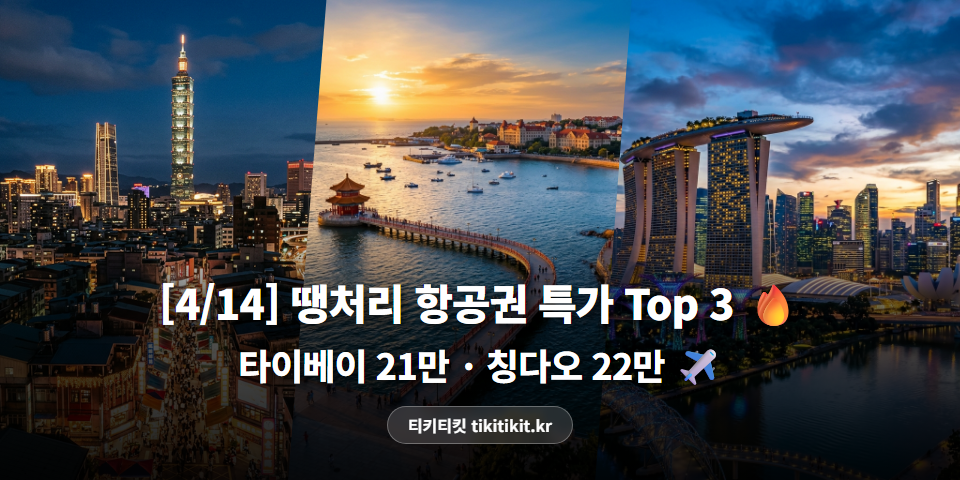
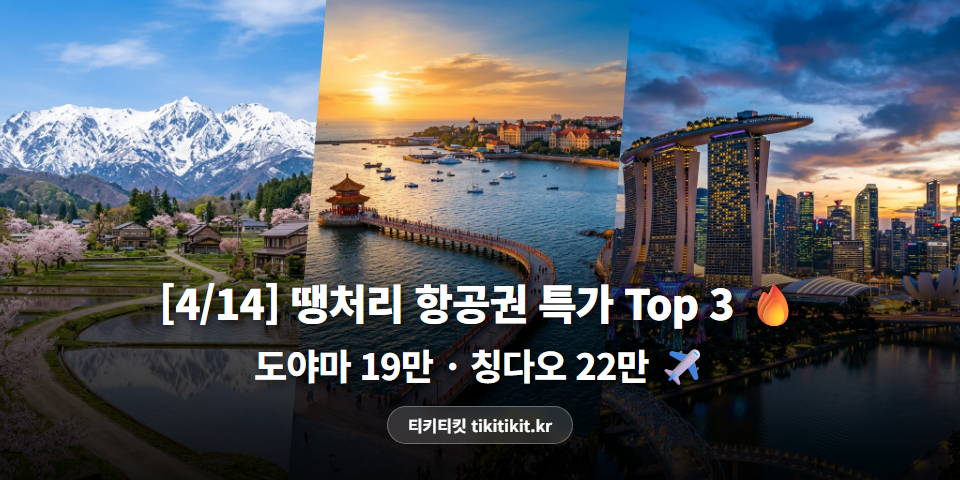
feat: 4/14 Top3 도야마 추가, 싱가포르 ICN섹션 이동, 썸네일 갱신

Changed region(s): [[0.0, 0.0, 0.75, 0.9375]]

diff --git a/public/blog-post-260414.html b/public/blog-post-260414.html
@@ -4,7 +4,7 @@
 <head>
     <meta charset="UTF-8">
     <meta name="viewport" content="width=device-width, initial-scale=1.0">
-    <title>[4/14] 땡처리 항공권 특가 TOP 3 | 타이베이 21만원, 칭다오 22만원 ✈</title>
+    <title>[4/14] 땡처리 항공권 특가 TOP 3 | 도야마 19만원, 칭다오 22만원 ✈</title>
     <style>
         * {
             margin: 0;
@@ -102,17 +102,17 @@
 
     <div class="post">
 
-        <img src="images/blog-thumb-260414-wide.png" alt="[4/14] 땡처리 항공권 특가 TOP 3 | 타이베이 21만원, 칭다오 22만원 ✈" style="width: 100%; border-radius: 12px; margin-bottom: 16px;" />
+        <img src="images/blog-thumb-260414-wide.png" alt="[4/14] 땡처리 항공권 특가 TOP 3 | 도야마 19만원, 칭다오 22만원 ✈" style="width: 100%; border-radius: 12px; margin-bottom: 16px;" />
 
-        <h1 style="text-align: center; font-size: 22px; font-weight: 800; color: #1a1a1a; margin: 16px 0 24px; line-height: 1.5;">[4/14] 땡처리 항공권 특가 TOP 3 | 타이베이 21만원, 칭다오 22만원 ✈</h1>
+        <h1 style="text-align: center; font-size: 22px; font-weight: 800; color: #1a1a1a; margin: 16px 0 24px; line-height: 1.5;">[4/14] 땡처리 항공권 특가 TOP 3 | 도야마 19만원, 칭다오 22만원 ✈</h1>
 
-        <img src="images/blog-thumb-260414-square.png" alt="[4/14] 땡처리 항공권 특가 TOP 3 | 타이베이 21만원, 칭다오 22만원 ✈ 썸네일" style="width: 100%; max-width: 600px; display: block; margin: 0 auto 16px; border-radius: 12px;" />
+        <img src="images/blog-thumb-260414-square.png" alt="[4/14] 땡처리 항공권 특가 TOP 3 | 도야마 19만원, 칭다오 22만원 ✈ 썸네일" style="width: 100%; max-width: 600px; display: block; margin: 0 auto 16px; border-radius: 12px;" />
 
         <p>&nbsp;</p>
-<p>여러 지역에서 동시에 특가가! 🌏</p>
+<p>일본, 중국, 동남아 동시 특가! 🌏</p>
         <p>&nbsp;</p>
-        <p>중국, 동남아 쪽으로</p>
-        <p>괜찮은 가격들이 올라왔어요.</p>
+        <p>도야마 19만원대부터</p>
+        <p>괜찮은 가격들이 올라왔어요.
 
         <hr class="divider">
 
@@ -120,16 +120,26 @@
 
         <p>&nbsp;</p>
         <p>🥇 1위</p>
+        <p><b>인천 ↔ 도야마 (일본)</b></p>
+        <p>티웨이항공 · 4/19(토)~4/22(화) · 3박 4일</p>
+        <p style="font-size: 20px; font-weight: 800; color: #e53e3e;"><b>199,000원</b></p>
+        <p>&nbsp;</p>
+        <p><img src="blog-cards/rank_toyama.png" alt="인천-도야마 항공권" style="max-width: 100%; border-radius: 12px; box-shadow: 0 2px 8px rgba(0,0,0,0.1);"></p>
+        <p>&nbsp;</p>
+        <p>다테야마 알펜루트의 설벽, 지금이 시즌! 🏔</p>
+
+        <p>&nbsp;</p>
+        <p>🥈 2위</p>
         <p><b>청주 ↔ 타이베이</b></p>
         <p>이스타항공 · 4/20(월)~4/24(금) · 4박 5일</p>
-        <p style="font-size: 20px; font-weight: 800; color: #e53e3e;"><b>219,200원</b></p>
+        <p style="font-size: 20px; font-weight: 800; "><b>219,200원</b></p>
         <p>&nbsp;</p>
         <p><img src="blog-cards/rank_1.png" alt="청주-타이베이 항공권" style="max-width: 100%; border-radius: 12px; box-shadow: 0 2px 8px rgba(0,0,0,0.1);"></p>
         <p>&nbsp;</p>
         <p>야시장 투어에 딘타이펑까지 🧆</p>
 
         <p>&nbsp;</p>
-        <p>🥈 2위</p>
+        <p>🥉 3위</p>
         <p><b>인천 ↔ 칭다오 (중국)</b></p>
         <p>산동항공 · 5/6(수)~5/8(금) · 2박 3일</p>
         <p style="font-size: 20px; font-weight: 800; "><b>227,300원</b></p>
@@ -139,36 +149,25 @@
         <p>칭다오 맥주의 본고장에서 생맥주 한 잔 🍺</p>
 
         <p>&nbsp;</p>
-        <p>🥉 3위</p>
-        <p><b>인천 ↔ 싱가포르 (동남아)</b></p>
-        <p>스쿠트항공 · 4/22(수)~4/26(일) · 4박 5일</p>
-        <p style="font-size: 20px; font-weight: 800; "><b>279,000원</b></p>
-        <p>&nbsp;</p>
-        <p><img src="blog-cards/rank_3.png" alt="인천-싱가포르 항공권" style="max-width: 100%; border-radius: 12px; box-shadow: 0 2px 8px rgba(0,0,0,0.1);"></p>
-        <p>&nbsp;</p>
-        <p>마리나베이 야경에 칠리크랩 한 접시 🦀</p>
-
-        <p>&nbsp;</p>
         <p style="font-size: 13px; color: #888;">※ 유류할증료/텍스 포함 왕복 총액 기준</p>
         <p style="font-size: 13px; color: #e53e3e; font-weight: bold;">※ 좌석이 빠지면 가격이 바뀌거나 사라질 수 있어요.</p>
 
 
         <hr class="divider">
 
-        <p class="section-title">💡 에디터 픽 : 3위 인천-싱가포르</p>
+        <p class="section-title">💡 에디터 픽 : 3위 인천-칭다오</p>
 
             <p>&nbsp;</p>
-            <p><b>인천-싱가포르 왕복 279,000원!</b></p>
+            <p><b>인천-칭다오 왕복 227,300원!</b></p>
             <p>&nbsp;</p>
-            <p>스쿠트항공 직항 6시간,</p>
-            <p>4박 5일이면 싱가포르 핵심은 다 돌아요.</p>
+            <p>산동항공 직항 1시간 반,</p>
+            <p>주말 이용하면 연차 하루로 2박 3일!</p>
             <p>&nbsp;</p>
-            <p>가든스 바이 더 베이 수퍼트리 야경 🌳</p>
-            <p>호커센터에서 미슐랭 치킨라이스 5천원,</p>
-            <p>센토사섬에서 유니버설 스튜디오까지!</p>
+            <p>맥주박물관에서 생맥주 시음 🍺</p>
+            <p>잔교 야경에 해산물 바베큐까지.</p>
             <p>&nbsp;</p>
-            <p>왕복 <b>27만원대</b>면</p>
-            <p>싱가포르치곤 파격이에요!</p>
+            <p>왕복 <b>22만원대</b>면</p>
+            <p>가볍게 다녀올 수 있어요!</p>
 
         <hr class="divider">
 
@@ -191,10 +190,10 @@
         <p>4/19~4/23 · 4박 5일 알찬 일정 가능!</p>
 
         <p>&nbsp;</p>
-        <p><img src="blog-cards/icn_3.png" alt="인천-지난 항공권" style="max-width: 100%; border-radius: 12px; box-shadow: 0 2px 8px rgba(0,0,0,0.1);"></p>
+        <p><img src="blog-cards/rank_3.png" alt="인천-싱가포르 항공권" style="max-width: 100%; border-radius: 12px; box-shadow: 0 2px 8px rgba(0,0,0,0.1);"></p>
         <p>&nbsp;</p>
-        <p>✈ <b>지난 189,000원</b> (에어로케이)</p>
-        <p>4/21~4/25 · 4박 5일 새로운 여행지 탐험!</p>
+        <p>✈ <b>싱가포르 279,000원</b> (스쿠트항공)</p>
+        <p>4/22~4/26 · 4박 5일 마리나베이 야경! 🦀</p>
 
         <hr class="divider">
 
@@ -216,7 +215,7 @@
         <p>&nbsp;</p>
         <p><a href="https://tikitikit.kr" class="cta-link">tikitikit.kr</a></p>
 
-        <p class="note">#땡처리항공권 #특가항공권 #항공권싸게사는법 #항공권최저가 #해외여행꿀팁 #티키티킷 #4월항공권 #4월해외여행 #타이베이여행 #칭다오여행 #싱가포르여행</p>
+        <p class="note">#땡처리항공권 #특가항공권 #항공권싸게사는법 #항공권최저가 #해외여행꿀팁 #티키티킷 #4월항공권 #4월해외여행 #도야마여행 #칭다오여행 #타이베이여행 #싱가포르여행</p>
 
     </div>
 </body>

diff --git a/public/blog-thumbnail-260414.html b/public/blog-thumbnail-260414.html
@@ -12,11 +12,11 @@
         .panels { display: flex; width: 100%; height: 100%; position: relative; }
         .panel { position: absolute; top: 0; bottom: 0; background-size: cover; background-position: center; }
 
-        .wide-banner .panel-1 { left: 0; width: 38%; clip-path: polygon(0 0, 100% 0, 90% 100%, 0 100%); background-image: url('images/thumb_taipei.png'); }
+        .wide-banner .panel-1 { left: 0; width: 38%; clip-path: polygon(0 0, 100% 0, 90% 100%, 0 100%); background-image: url('images/thumb_toyama.png'); }
         .wide-banner .panel-2 { left: 30%; width: 40%; clip-path: polygon(10% 0, 100% 0, 90% 100%, 0 100%); background-image: url('images/thumb_qingdao.png'); }
         .wide-banner .panel-3 { right: 0; width: 38%; clip-path: polygon(10% 0, 100% 0, 100% 100%, 0 100%); background-image: url('images/thumb_singapore.png'); }
 
-        .square-thumb .panel-1 { left: 0; width: 38%; clip-path: polygon(0 0, 100% 0, 88% 100%, 0 100%); background-image: url('images/thumb_taipei.png'); }
+        .square-thumb .panel-1 { left: 0; width: 38%; clip-path: polygon(0 0, 100% 0, 88% 100%, 0 100%); background-image: url('images/thumb_toyama.png'); }
         .square-thumb .panel-2 { left: 30%; width: 40%; clip-path: polygon(12% 0, 100% 0, 88% 100%, 0 100%); background-image: url('images/thumb_qingdao.png'); }
         .square-thumb .panel-3 { right: 0; width: 38%; clip-path: polygon(12% 0, 100% 0, 100% 100%, 0 100%); background-image: url('images/thumb_singapore.png'); }
 
@@ -44,7 +44,7 @@
         </div>
         <div class="text-overlay">
             <div class="line1">[4/14] 땡처리 항공권 특가 Top 3 🔥</div>
-            <div class="line2">타이베이 21만 · 칭다오 22만 ✈</div>
+            <div class="line2">도야마 19만 · 칭다오 22만 ✈</div>
             <div class="site-badge">티키티킷 tikitikit.kr</div>
         </div>
     </div>
@@ -58,7 +58,7 @@
         </div>
         <div class="text-overlay-full">
             <div class="line1" style="font-size: 90px; line-height: 1.15;">[4/14]<br>땡처리 항공권<br>특가 Top 3 🔥</div>
-            <div class="line-accent">타이베이 21만 · 칭다오 22만</div>
+            <div class="line-accent">도야마 19만 · 칭다오 22만</div>
             <div class="site-badge">티키티킷 tikitikit.kr</div>
         </div>
     </div>

diff --git a/scripts/capture-toyama.js b/scripts/capture-toyama.js
@@ -1,0 +1,26 @@
+const { chromium } = require('playwright');
+const path = require('path');
+
+(async () => {
+    const browser = await chromium.launch();
+    const page = await browser.newPage({ viewport: { width: 800, height: 1000 } });
+    const data = {
+        id: 'override-toy', source: 'ttang', airline: '티웨이항공',
+        departure: { city: '인천', airport: 'ICN', date: '2026-04-19', time: '' },
+        arrival: { city: '도야마', airport: 'TOY', date: '2026-04-22', time: '' },
+        price: 199000, currency: 'KRW', link: '', seats: ''
+    };
+    await page.route('**/api/flights*', async route => {
+        await route.fulfill({ status: 200, contentType: 'application/json',
+            body: JSON.stringify({ flights: [data], lastUpdated: new Date().toISOString() }) });
+    });
+    await page.goto('http://localhost:3000', { waitUntil: 'networkidle', timeout: 20000 });
+    await page.waitForTimeout(1500);
+    try { const dt = page.locator('span:has-text("~") button'); if (await dt.first().isVisible({timeout:2000}).catch(()=>false)) { await dt.first().click(); await page.waitForTimeout(500); } } catch(e){}
+    try { const a = page.locator('button').filter({hasText:'전체'}).first(); if (await a.isVisible({timeout:2000}).catch(()=>false)) { await a.click(); await page.waitForTimeout(1000); } } catch(e){}
+    const card = page.locator('.card').first();
+    await card.waitFor({ state: 'visible', timeout: 10000 });
+    await card.screenshot({ path: path.join(__dirname, '..', 'public', 'blog-cards', 'rank_toyama.png') });
+    console.log('✅ rank_toyama.png saved');
+    await browser.close();
+})();
